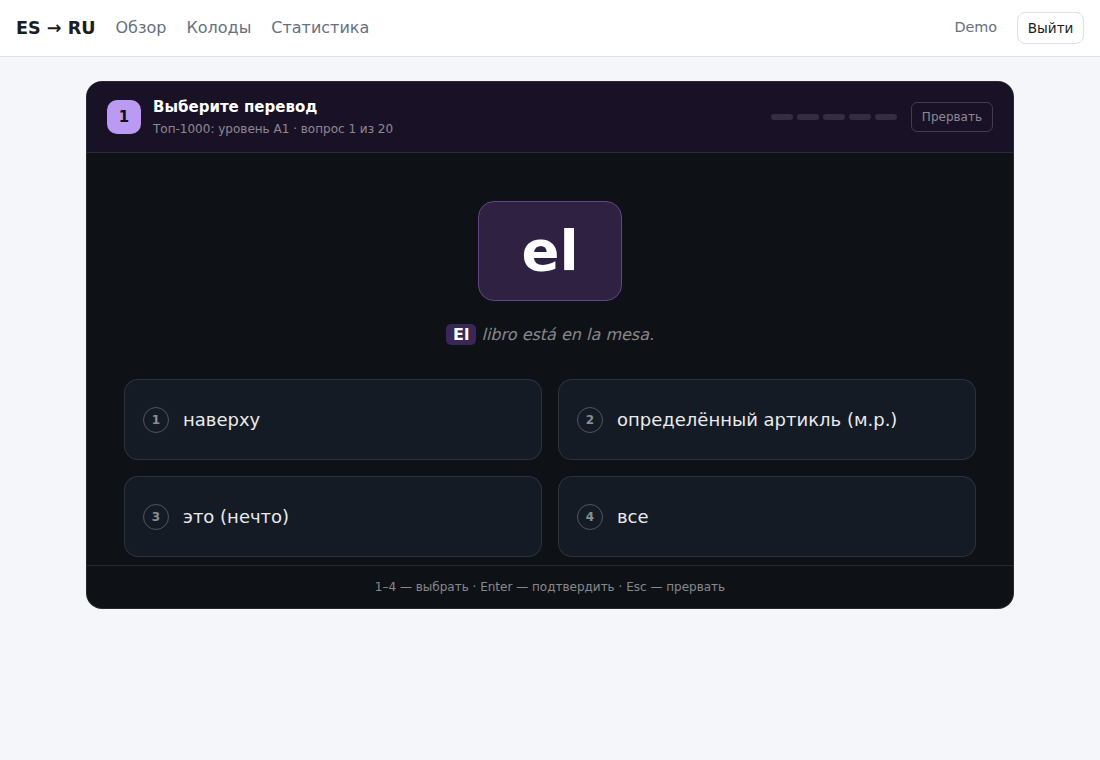
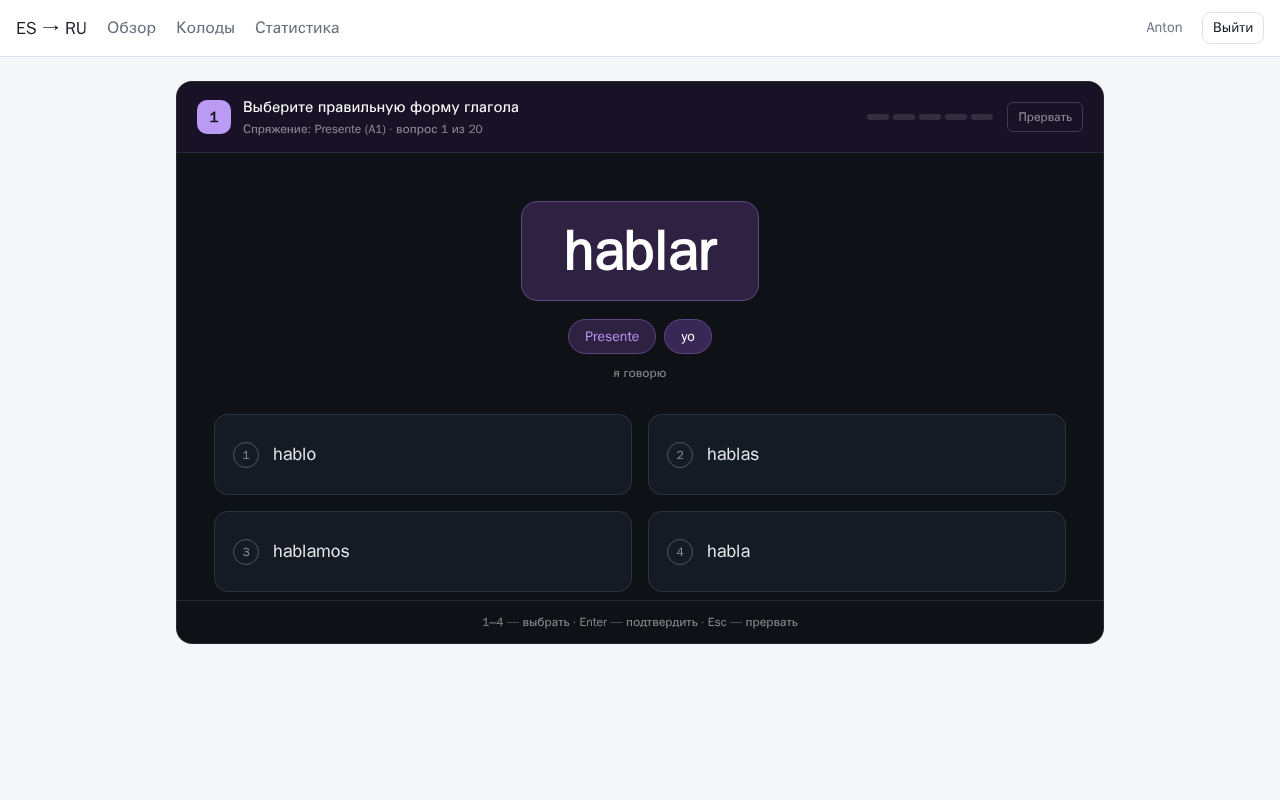
Backfill README/screenshots for tense/pronoun badges and stats columns
Retroactively applies the new docs-on-UI-change rule (CLAUDE.md) to
the previous two commits: conjugation quiz badges and correct/failed
counts in stats (both table and daily bars).

diff --git a/README.md b/README.md
@@ -12,7 +12,7 @@ A local, self-hosted Spanish → Russian language trainer with SM-2 spaced repet
 | ![Flashcards](docs/screenshots/quiz-flashcards.png) | ![Session summary with continue option](docs/screenshots/quiz-summary.png) |
 | Flashcards (self-graded) | Session summary — offers to continue if the deck has more due/unseen cards |
 | ![Dashboard](docs/screenshots/dashboard.png) | ![Stats](docs/screenshots/stats.png) |
-| Dashboard — progress per learning block | Stats — accuracy by mode, hardest words |
+| Dashboard — progress per learning block | Stats — accuracy by mode (correct/failed counts), daily correct/failed breakdown, hardest words |
 
 More screens (profile picker, block/mode selector) are in [`docs/screenshots/`](docs/screenshots/).
 
@@ -26,7 +26,7 @@ More screens (profile picker, block/mode selector) are in [`docs/screenshots/`](
 - **Multiple local profiles** (Netflix-style picker, no passwords) with independent
   SM-2 progress per word and per exercise
 - **Custom decks**: create your own, CSV import/export (`es,ru,example`)
-- **Stats**: reviews per day, accuracy by mode, hardest words/exercises
+- **Stats**: reviews per day (correct/failed breakdown), accuracy by mode (correct/failed counts), hardest words/exercises
 
 ## Data safety
 